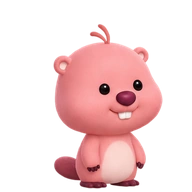
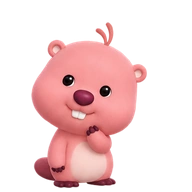
fix(web): keep Loopy facial features aligned during idle motion

Changed region(s): [[0.1562, 0.125, 0.875, 1.0]]

diff --git a/web/src/components/RunnerPet/animations.ts b/web/src/components/RunnerPet/animations.ts
@@ -24,6 +24,6 @@ export function runnerPetAsset(animation: RunnerPetAnimation, still = false, pet
     // The original character keeps its approved artwork while gaining continuous movement.
     const source = pet === 'companion'
         ? ({ walk: 'working', jump: 'happy', land: 'tap', fall: 'drag' } as Partial<Record<RunnerPetAnimation, string>>)[animation] ?? animation
-        : animation
+        : !still && (animation === 'idle' || animation === 'working') ? `${animation}-stable` : animation
     return `${import.meta.env.BASE_URL}pets/${RUNNER_PETS[pet].assets}/${still ? 'static/' : ''}${source}.webp`
 }

diff --git a/web/src/components/RunnerPet/roaming.test.ts b/web/src/components/RunnerPet/roaming.test.ts
@@ -51,5 +51,8 @@ describe('Runner pet safe roaming routes', () => {
         expect(runnerPetAsset('jump', false, 'companion')).toContain('/runner-v2/happy.webp')
         expect(runnerPetAsset('jump', false, 'loopy')).toContain('/loopy-v1/jump.webp')
         expect(runnerPetAsset('drag', true, 'loopy')).toContain('/loopy-v1/static/drag.webp')
+        expect(runnerPetAsset('idle')).toContain('/loopy-v1/idle-stable.webp')
+        expect(runnerPetAsset('working')).toContain('/loopy-v1/working-stable.webp')
+        expect(runnerPetAsset('idle', true)).toContain('/loopy-v1/static/idle.webp')
     })
 })

diff --git a/scripts/dev/runner-pet-loopy.py b/scripts/dev/runner-pet-loopy.py
@@ -19,12 +19,12 @@ spec = importlib.util.spec_from_file_location('smooth', Path(__file__).with_name
 smooth = importlib.util.module_from_spec(spec)
 spec.loader.exec_module(smooth)
 CLIPS = {
-    'idle': ([0, 0, 0, 1, 0, 2, 0, 0], 2000),
+    'idle': ([0], 2000),
     'tap': ([0, 12, 12, 3, 0], 2000),
     'happy': ([3, 14, 3, 14], 2000),
     'bored': ([13], 2000),
     'celebrate': ([3, 14, 9, 14, 3], 2000),
-    'working': ([0, 2, 0, 1], 2000),
+    'working': ([2], 2000),
     'waiting': ([2], 2000),
     'offline': ([13], 2000),
     'drag': ([15], 2000),
@@ -33,6 +33,21 @@ CLIPS = {
     'land': ([11, 0], 320),
     'fall': ([10], 1000),
 }
+
+
+def coherent_sway(premultiplied, phase, amplitude):
+    # Transform the entire character with one affine matrix. Dense optical flow
+    # between differently turned faces can pin/duplicate the eyes and nose.
+    angle = math.sin(phase) * amplitude
+    breath = 1 + .008 * math.sin(phase)
+    matrix = cv2.getRotationMatrix2D((96, 180), angle, breath)
+    rgba = cv2.warpAffine(premultiplied, matrix, (192, 192), flags=cv2.INTER_CUBIC,
+                          borderMode=cv2.BORDER_CONSTANT)
+    rgba = np.clip(rgba, 0, 1)
+    alpha = rgba[:, :, 3:4]
+    rgba[:, :, :3] = np.divide(rgba[:, :, :3], alpha, out=np.zeros_like(rgba[:, :, :3]), where=alpha > .005)
+    rgba[alpha[:, :, 0] < .03] = 0
+    return Image.fromarray(np.clip(rgba * 255, 0, 255).astype(np.uint8))
 
 
 def main():
@@ -86,7 +101,10 @@ def main():
                 if pair not in cache:
                     cache[pair] = (flow.calc(prepared[a][1], prepared[b][1], None), flow.calc(prepared[b][1], prepared[a][1], None))
                 frame = smooth.tween(prepared[a][0], prepared[b][0], *cache[pair], t)
-            if len(sequence) == 1:
+            if name in ('idle', 'working'):
+                frame = coherent_sway(prepared[sequence[0]][0], frame_index / total * 2 * math.pi,
+                                      1.4 if name == 'idle' else .8)
+            elif len(sequence) == 1:
                 phase = frame_index / total * 2 * math.pi
                 if name == 'drag':
                     frame = frame.rotate(math.sin(phase)*4, Image.Resampling.BICUBIC, center=(96, 45))
@@ -99,8 +117,15 @@ def main():
         timings = [round((i+1)*duration/total)-round(i*duration/total) for i in range(total)]
         output = DEST / f'{name}.webp'
         frames[0].save(output, save_all=True, append_images=frames[1:], duration=timings, loop=0 if looping else 1, quality=90, method=6)
+        if name in ('idle', 'working'):
+            # New URLs bypass previously precached distorted clips. Keep the old
+            # URL updated too for clients still running the preceding bundle.
+            (DEST / f'{name}-stable.webp').write_bytes(output.read_bytes())
         poses[sequence[0]].save(DEST / 'static' / f'{name}.webp', quality=95, method=6)
         manifest['animations'][name] = {'durationMs': duration, 'playbackFrames': total, 'sourcePoses': len(set(sequence)), 'bytes': output.stat().st_size}
+        if name in ('idle', 'working'):
+            manifest['animations'][name]['method'] = 'Single coherent pose; whole-character affine breathing and sway; no face interpolation'
+            manifest['animations'][name]['file'] = f'{name}-stable.webp'
         print(name, duration, total, output.stat().st_size, flush=True)
     (DEST / 'manifest.json').write_text(json.dumps(manifest, indent=2) + '\n', encoding='utf-8', newline='\n')
     # A clean contact sheet for review; original generation remains untouched.

diff --git a/web/README.md b/web/README.md
@@ -82,6 +82,11 @@ drawn frames. Original companion movement reuses working/happy/tap poses with
 continuous page movement and CSS body motion; falling reuses the dangling pose.
 Both currently share the existing voice.
 
+Loopy's idle and working loops use a single coherent pose with whole-character
+breathing and sway. They deliberately avoid optical-flow interpolation across
+head turns, which can misalign the eyes and nose. Their `*-stable.webp` URLs
+replace the earlier precached clips; legacy URLs also contain the corrected art.
+
 ### Message platforms and gravity
 
 Inside a `data-runner-pet-world` chat viewport, both characters stand on visible
